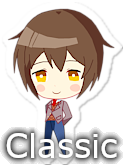
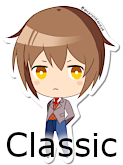
Changed MC chibis and credit

diff --git a/src/components/panels/credits.vue b/src/components/panels/credits.vue
@@ -2,10 +2,13 @@
 	<div :class="{ panel: true, vertical }">
 		<h1>Credits</h1>
 		<p>All assets used are IP of Team Salvato and created by them, unless noted otherwise.</p>
-		<p>Doki Doki Dialog Generator developed by EDave64</p>
+		<p>
+			Doki Doki Dialog Generator developed by EDave64
+			<br />Based on gemdude46's DDLC Shitpost generator
+		</p>
 		<p>MC Classic Sprite by Childish-N</p>
 		<p>MC Sprite by Childish-N</p>
-		<p>MC Chibis from Seanm0451's Chibi Pack</p>
+		<p>MC Chibis by GyleToTheRescue</p>
 		<p>
 			FeMC Sprite by Meddy-sin
 			<br />FeMC Casual Sprite by SlightlySimple
